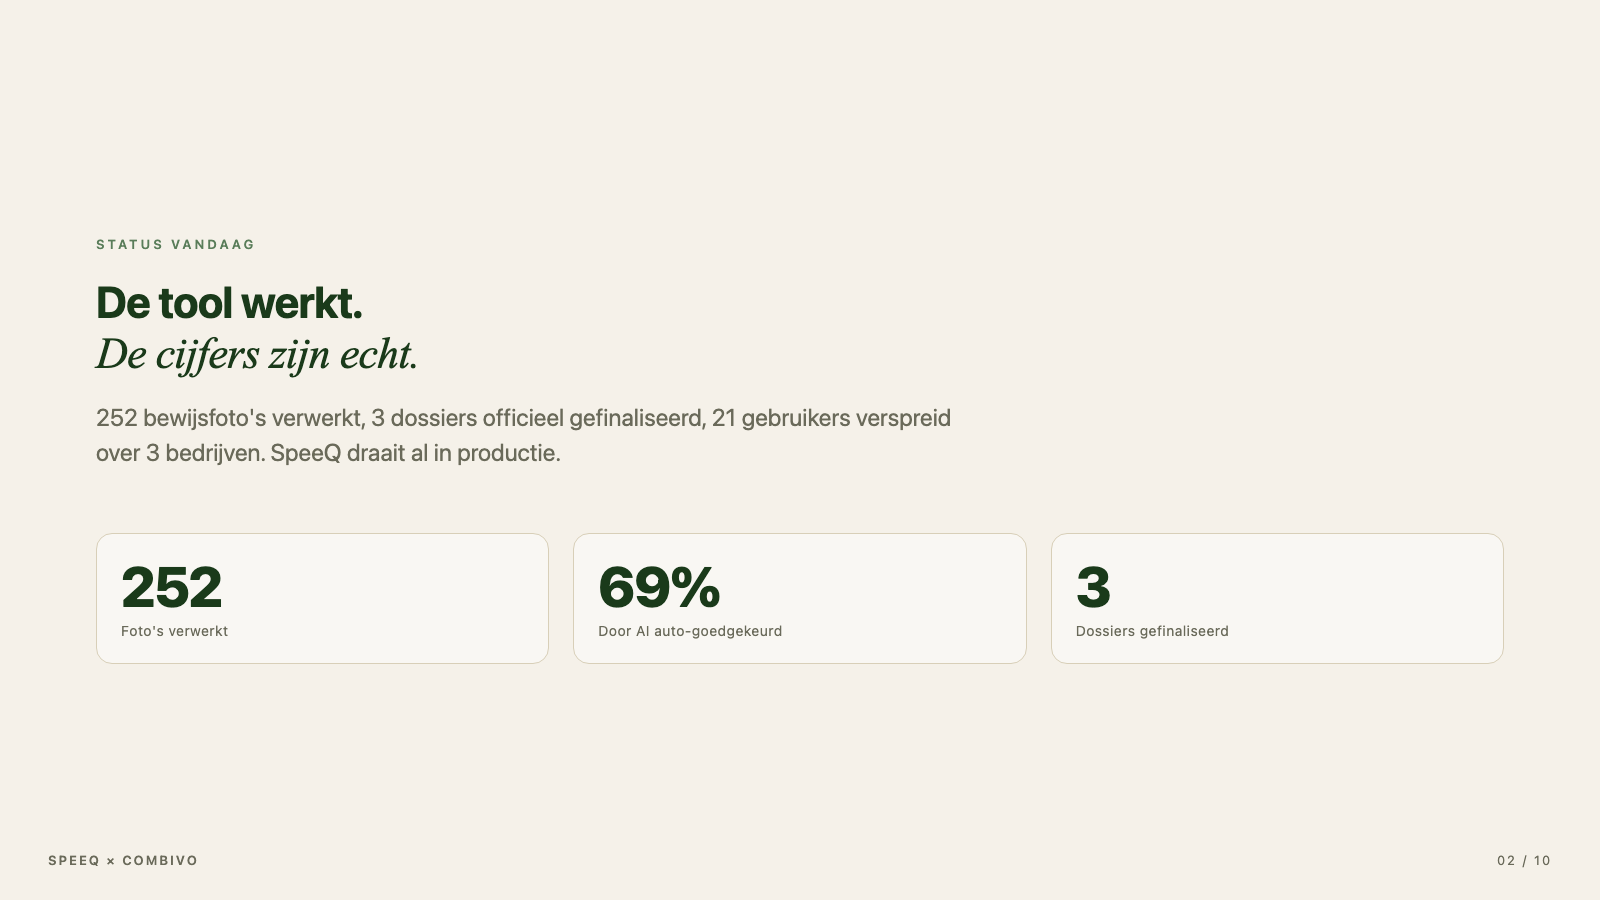
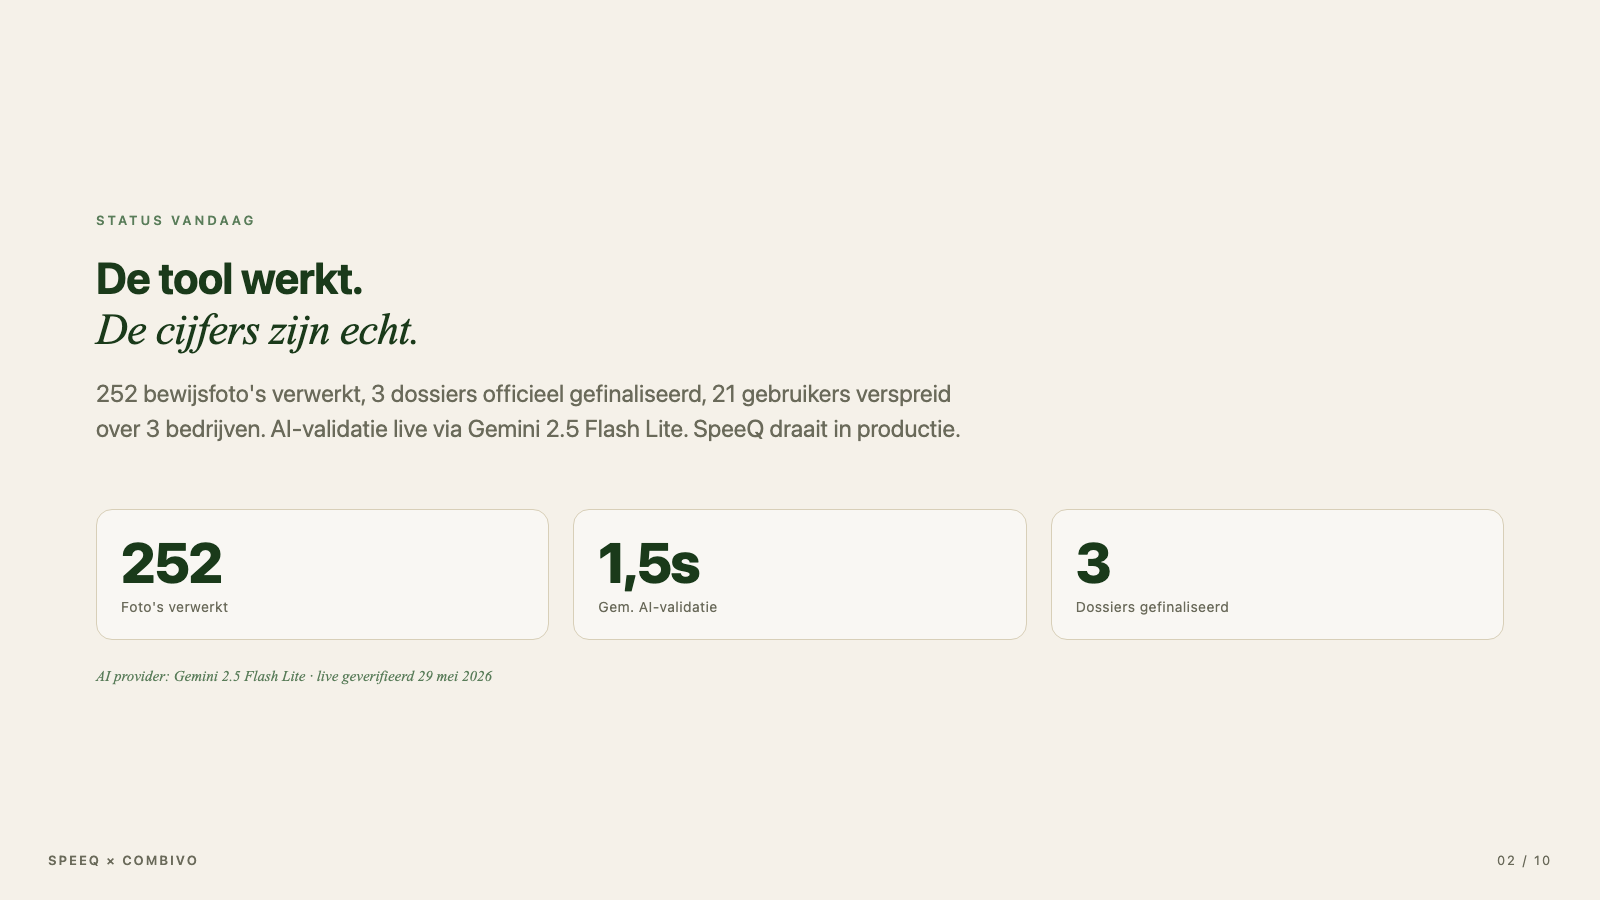
docs(demo-prep): live AI test resultaten + presentatie update na bug fix
Na patch van aiService.ts (commit 557e54f):
- Live Gemini test verified 4/4 succesvol op productie-foto's
- Sales-demo data bijgewerkt met 2 echte construction-foto's
  + 2 placeholders (voor "AI catches wrong photo" demo story)
- Presentatie slide 2 ververst: AI provider toegevoegd, latency 1.5s
- LIVE-TEST-RESULTS.md geschreven met deep-dive over de bug + fix
- Test script test-gemini-live.js verplaatst naar ai-comparison/

diff --git a/demo-prep/presentation/index.html b/demo-prep/presentation/index.html
@@ -319,21 +319,22 @@
 <section class="slide" data-slide="2">
   <div class="eyebrow">Status vandaag</div>
   <h2>De tool werkt.<br><em>De cijfers zijn echt.</em></h2>
-  <p class="lead">252 bewijsfoto's verwerkt, 3 dossiers officieel gefinaliseerd, 21 gebruikers verspreid over 3 bedrijven. SpeeQ draait al in productie.</p>
+  <p class="lead">252 bewijsfoto's verwerkt, 3 dossiers officieel gefinaliseerd, 21 gebruikers verspreid over 3 bedrijven. AI-validatie live via Gemini 2.5 Flash Lite. SpeeQ draait in productie.</p>
   <div class="stat-row">
     <div class="stat">
       <div class="stat-value">252</div>
       <div class="stat-label">Foto's verwerkt</div>
     </div>
     <div class="stat">
-      <div class="stat-value">69%</div>
-      <div class="stat-label">Door AI auto-goedgekeurd</div>
+      <div class="stat-value">1,5s</div>
+      <div class="stat-label">Gem. AI-validatie</div>
     </div>
     <div class="stat">
       <div class="stat-value">3</div>
       <div class="stat-label">Dossiers gefinaliseerd</div>
     </div>
   </div>
+  <p style="margin-top:24px;font-size:15px;color:var(--olive);font-style:italic;font-family:'Times New Roman',serif;">AI provider: Gemini 2.5 Flash Lite · live geverifieerd 29 mei 2026</p>
   <div class="brand">SPEEQ × COMBIVO</div>
   <div class="pagenum">02 / 10</div>
 </section>